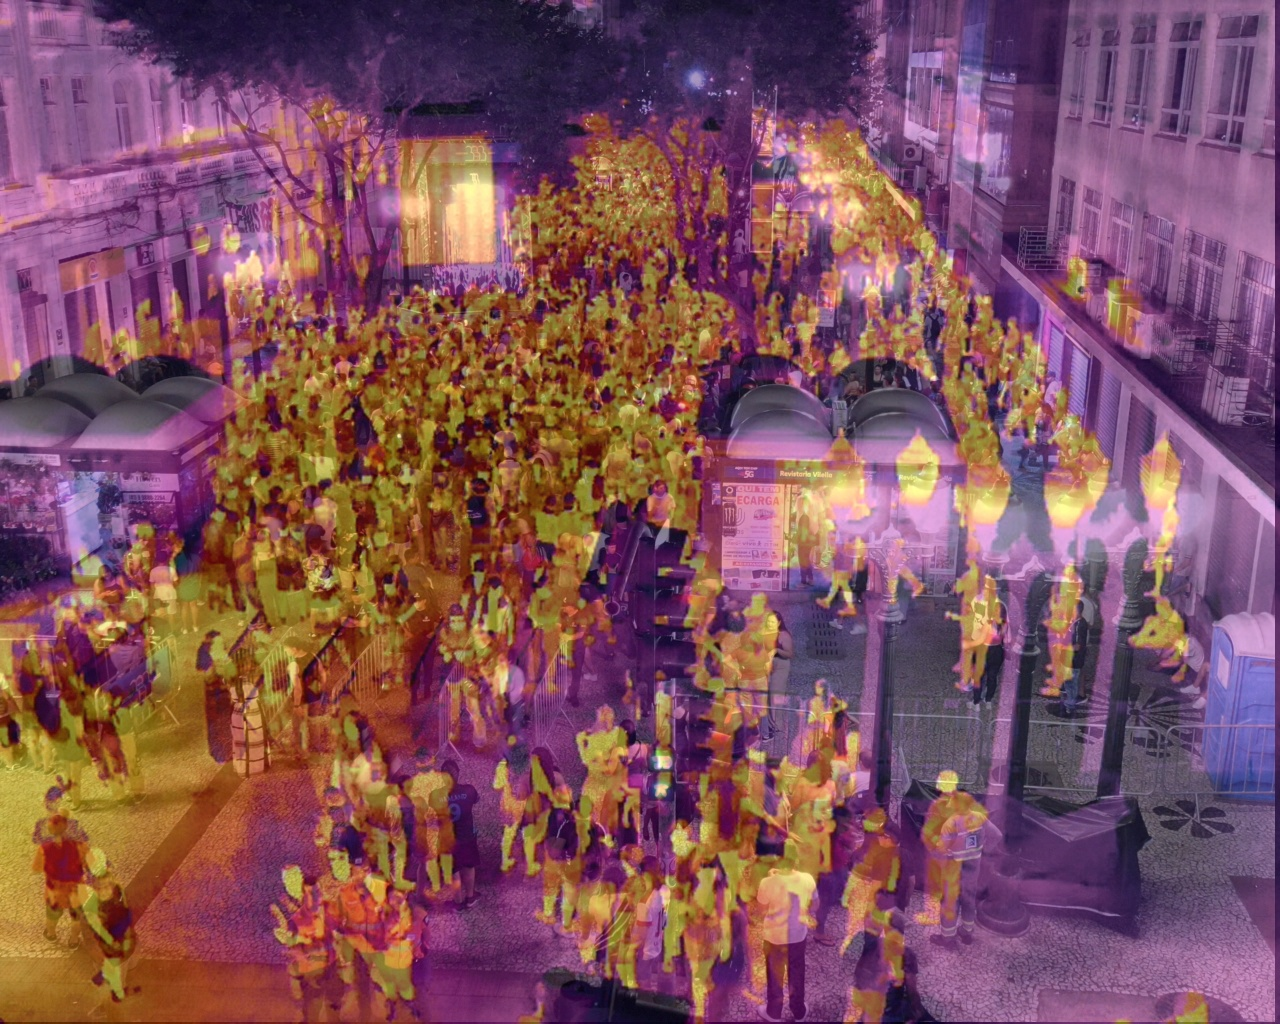
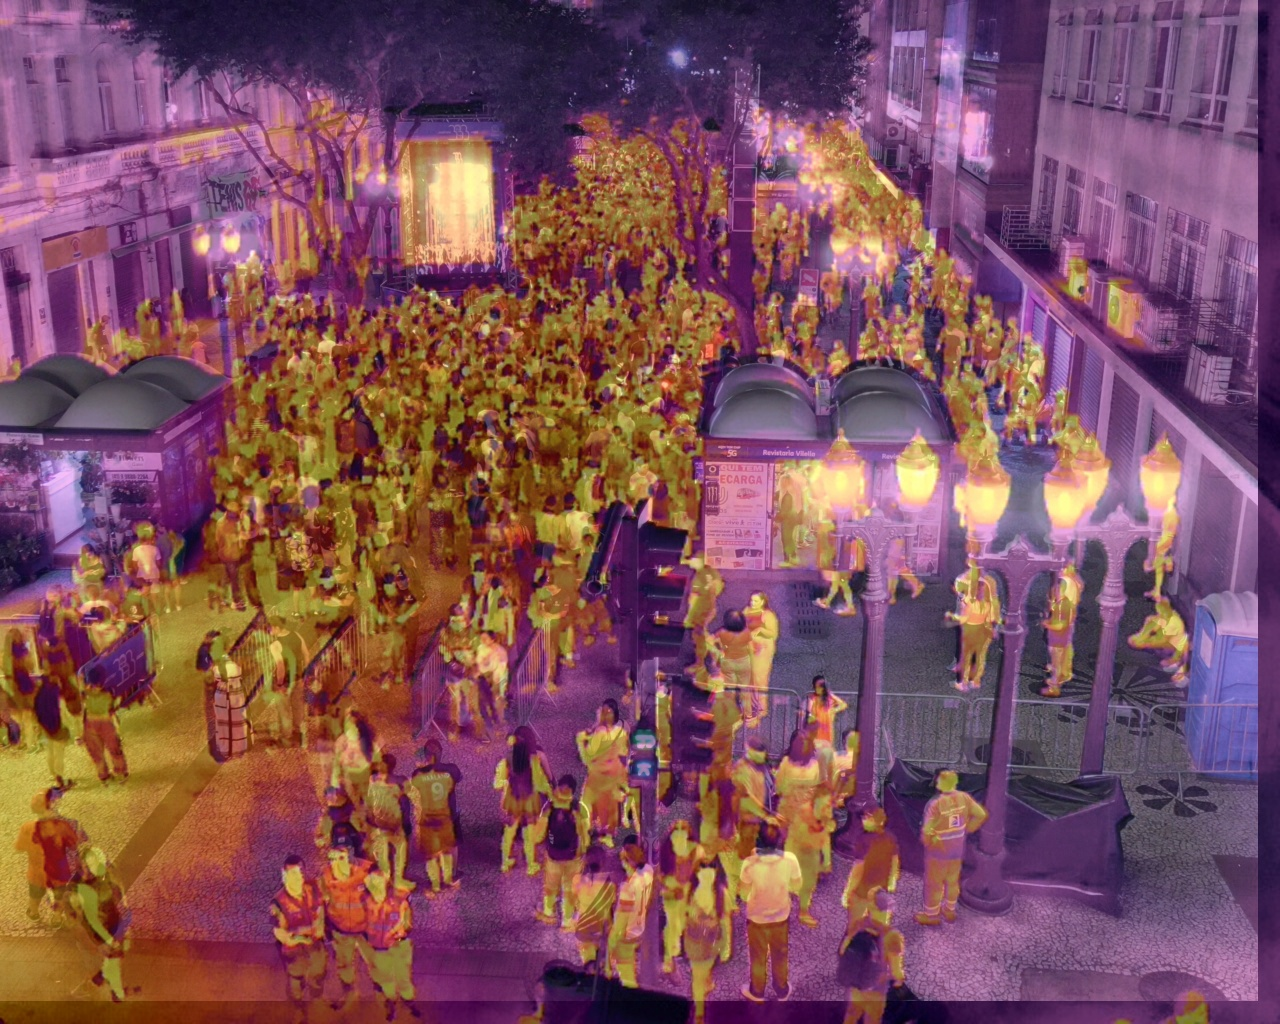
fix: little adjusments with 5 pixels on left and top from "image T" to positioning fits 100% with Thermal image

diff --git a/count-github-def_rgbtcc/app/head_counting/preprocessing.py b/count-github-def_rgbtcc/app/head_counting/preprocessing.py
@@ -6,6 +6,7 @@ This module provides a decoupled, independent preprocessor (`RGBTImageEqualizer`
 to perform pixel-level layer alignment (co-registration) between RGB and Thermal image pairs.
 
 Key Capabilities:
+- Pedestrian Sub-Pixel Alignment: Calibrated displacement offsets for perfect crowd silhouette overlay.
 - Lens Undistortion Correction (`undistort_lens`): Corrects Wide 24mm lens barrel distortion.
 - Precise FOV Aspect-Ratio Matching (Corrects 4:3 vs 5:4 sensor aspect ratio mismatch eliminating lateral shearing/squeeze).
 - Ground-Plane ROI Focused Co-registration: Prioritizes pedestrian surface alignment over rooftop parallax.
@@ -38,8 +39,8 @@ class RGBTImageEqualizer:
         clahe_tile_grid: Grid size for histogram equalization (e.g. (8, 8)).
         fov_crop_ratio: Center crop height ratio for Wide RGB matching Thermal FOV (default 0.70 / 70%).
         undistort_lens: If True, corrects Wide lens radial barrel distortion.
-        shift_rgb_x: Horizontal shift in pixels applied strictly to RGB image (negative = left).
-        shift_rgb_y: Vertical shift in pixels applied strictly to RGB image (negative = up).
+        shift_rgb_x: Horizontal shift in pixels applied strictly to RGB image (default -15px left).
+        shift_rgb_y: Vertical shift in pixels applied strictly to RGB image (default -16px up).
         mode: Alignment mode ("homography", "affine", or "crop").
     """
 
@@ -52,8 +53,8 @@ class RGBTImageEqualizer:
         clahe_tile_grid: Tuple[int, int] = (8, 8),
         fov_crop_ratio: float = 0.70,
         undistort_lens: bool = True,
-        shift_rgb_x: int = -5,
-        shift_rgb_y: int = -2,
+        shift_rgb_x: int = -22,
+        shift_rgb_y: int = -23,
         mode: str = "homography",
     ):
         """Initializes RGBTImageEqualizer settings.
@@ -66,8 +67,8 @@ class RGBTImageEqualizer:
             clahe_tile_grid: CLAHE tile grid dimensions tuple.
             fov_crop_ratio: Wide RGB center crop height ratio matching Thermal HFOV (default 0.70).
             undistort_lens: Corrects 24mm Wide lens barrel distortion.
-            shift_rgb_x: Direct horizontal shift in pixels for RGB (default -5px left).
-            shift_rgb_y: Direct vertical shift in pixels for RGB (default -2px up).
+            shift_rgb_x: Direct horizontal shift in pixels for RGB (default -15px left).
+            shift_rgb_y: Direct vertical shift in pixels for RGB (default -16px up).
             mode: Alignment mode ("homography", "affine", or "crop").
         """
         self.target_w, self.target_h = target_size
